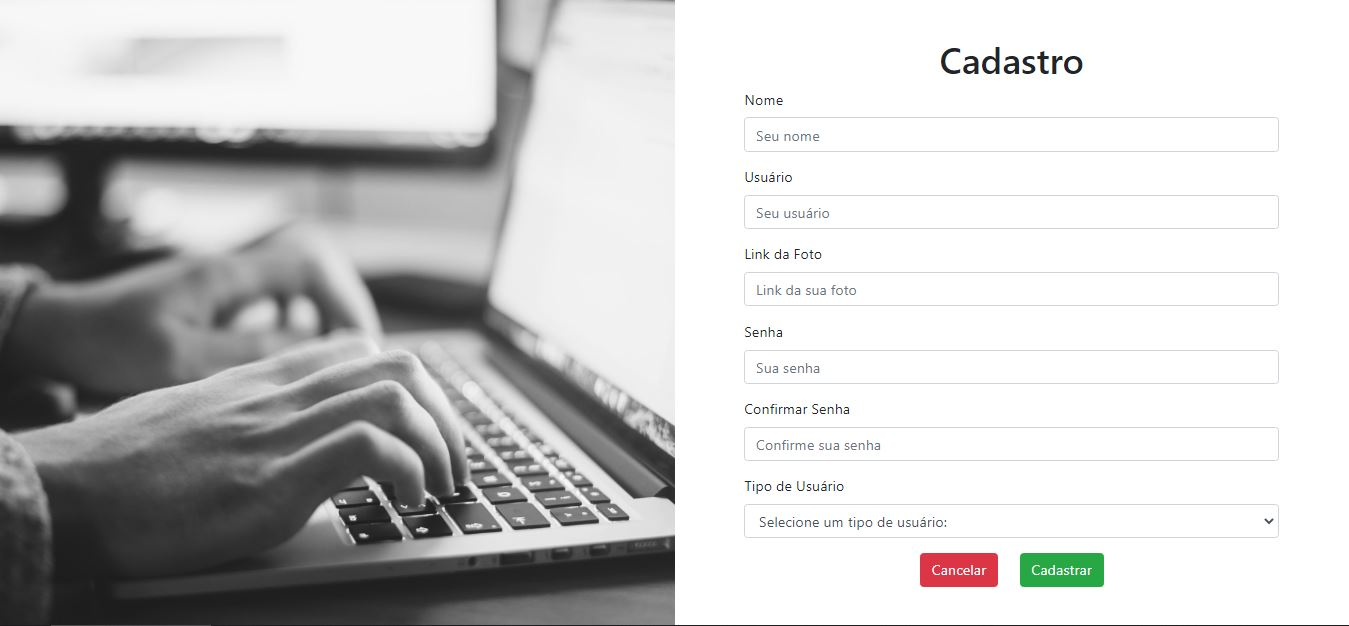
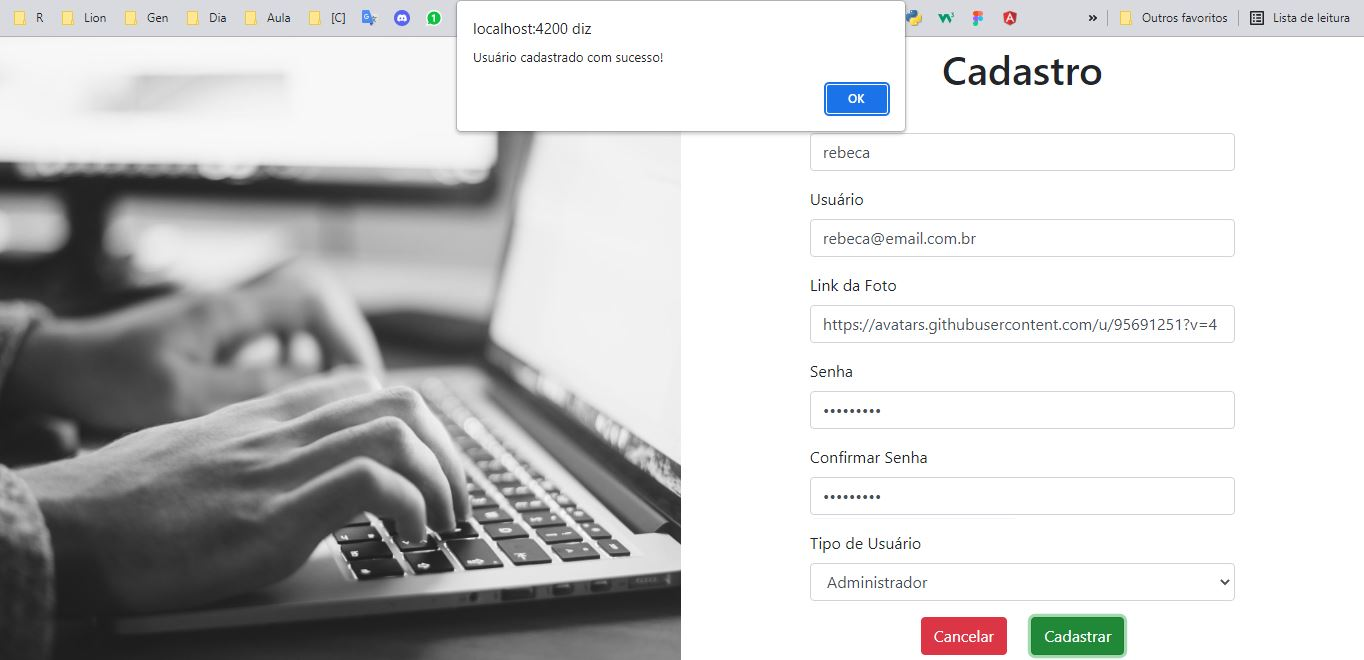
@RebecaMarquesSilva [Update - Consumo de API]

diff --git a/src/app/cadastrar/cadastrar.component.html b/src/app/cadastrar/cadastrar.component.html
@@ -10,6 +10,7 @@
           <div class="form-group">
             <label for="nome">Nome</label>
             <input
+              [(ngModel)]="user.nome"
               type="text"
               class="form-control"
               name="nome"
@@ -21,6 +22,7 @@
           <div class="form-group">
             <label for="usuario">Usuário</label>
             <input
+              [(ngModel)]="user.usuario"
               type="text"
               class="form-control"
               name="usuario"
@@ -32,6 +34,7 @@
           <div class="form-group">
             <label for="foto">Link da Foto</label>
             <input
+            [(ngModel)]="user.foto"
               type="text"
               class="form-control"
               name="foto"
@@ -42,7 +45,7 @@
 
           <div class="form-group">
             <label for="senha">Senha</label>
-            <input
+            <input (input)="confirmSenha($event)"
               class="form-control"
               type="password"
               name="senha"
@@ -54,6 +57,7 @@
           <div class="form-group">
             <label for="confirmarSenha">Confirmar Senha</label>
             <input
+              [(ngModel)]="user.senha"
               class="form-control"
               type="password"
               name="confirmarSenha"
@@ -64,7 +68,7 @@
 
           <div class="form-group">
             <label for="tipo">Tipo de Usuário</label>
-            <select class="form-control" name="tipo" id="tipo">
+            <select class="form-control" name="tipo" id="tipo" (change)="tipoUser($event)">
               <option>Selecione um tipo de usuário:</option>
               <option value="normal">Normal</option>
               <option value="adm">Administrador</option>
@@ -73,7 +77,7 @@
 
           <div class="d-flex justify-content-center">
             <button type="submit" class="btn btn-danger mr-4" routerLink="/entrar">Cancelar</button>
-            <button type="submit" class="btn btn-success">Cadastrar</button>
+            <button type="submit" class="btn btn-success" (click)="cadastrar()">Cadastrar</button>
           </div>
         </div>
       </div>

diff --git a/src/app/entrar/entrar.component.ts b/src/app/entrar/entrar.component.ts
@@ -1,4 +1,8 @@
 import { Component, OnInit } from '@angular/core';
+import { Router } from '@angular/router';
+import { environment } from 'src/environments/environment.prod';
+import { UserLogin } from '../model/UserLogin';
+import { AuthService } from '../service/auth.service';
 
 @Component({
   selector: 'app-entrar',
@@ -7,9 +11,36 @@ import { Component, OnInit } from '@angular/core';
 })
 export class EntrarComponent implements OnInit {
 
-  constructor() { }
+  userLogin: UserLogin = new UserLogin()
 
-  ngOnInit(): void {
+  constructor(
+    private authService: AuthService,
+    private router: Router
+  ) { }
+
+  ngOnInit() {
+    window.scroll(0,0)
   }
 
+  entrar() {
+    this.authService.entrar(this.userLogin).subscribe((resp: UserLogin) => {
+      this.userLogin = resp
+
+      environment.token = this.userLogin.token
+      environment.nome = this.userLogin.nome
+      environment.foto = this.userLogin.foto
+      environment.id = this.userLogin.id
+
+      // console.log(environment.token)
+      // console.log(environment.nome)
+      // console.log(environment.foto)
+      // console.log(environment.id)
+
+      this.router.navigate(["/inicio"])
+    }, erro => {
+      if(erro.status == 500) {
+      alert("Usuário e/ou senha estão incorretos!")
+      }
+    })
+  }
 }

diff --git a/src/app/cadastrar/cadastrar.component.ts b/src/app/cadastrar/cadastrar.component.ts
@@ -1,5 +1,8 @@
 import { Component, OnInit } from '@angular/core';
-import { UserLogin } from '../model/UserLogin';
+import { Router } from '@angular/router';
+import { User } from '../model/User';
+import { AuthService } from '../service/auth.service';
+
 
 @Component({
   selector: 'app-cadastrar',
@@ -8,12 +11,40 @@ import { UserLogin } from '../model/UserLogin';
 })
 export class CadastrarComponent implements OnInit {
 
-  userLogin: UserLogin = new UserLogin
+  user: User = new User
+  confirmaSenha: string
+  tipoUsuario: string
 
-  constructor() { }
+  constructor(
+    private authService: AuthService,
+    private router: Router
+  ) { }
 
   ngOnInit() {
     window.scroll(0,0)
   }
 
+  confirmSenha(event: any) {
+    this.confirmaSenha = event.target.value
+  }
+
+  tipoUser(event: any) {
+    this.tipoUsuario = event.target.value
+  }
+
+  cadastrar() {
+    this.user.tipo = this.tipoUsuario
+
+
+  if(this.user.senha != this.confirmaSenha) {
+    alert("As senhas estão incorretas")
+  } else {
+    this.authService.cadastrar(this.user).subscribe((resp: User) => {
+      this.user = resp
+      this.router.navigate(["/entrar"])
+
+      alert("Usuário cadastrado com sucesso!")
+    })
+  }
+  }
 }

diff --git a/src/app/entrar/entrar.component.html b/src/app/entrar/entrar.component.html
@@ -7,6 +7,7 @@
           <div class="form-group">
             <label for="usuario">Usuário</label>
             <input
+              [(ngModel)]="userLogin.usuario"
               class="form-control"
               type="text"
               name="usuario"
@@ -17,6 +18,7 @@
           <div class="form-group">
             <label for="senha">Senha</label>
             <input
+              [(ngModel)]="userLogin.senha"
               class="form-control"
               type="password"
               name="senha"
@@ -25,7 +27,7 @@
             />
           </div>
           <div class="d-flex justify-content-center">
-            <button type="submit" class="btn btn-success">Entrar</button>
+            <button type="submit" class="btn btn-success" (click)="entrar()">Entrar</button>
           </div>
           <hr class="mt-5 mb-5" />
           <p class="text-center">

diff --git a/src/app/app.module.ts b/src/app/app.module.ts
@@ -10,6 +10,7 @@ import { MenuComponent } from './menu/menu.component';
 import { RodapeComponent } from './rodape/rodape.component';
 import { EntrarComponent } from './entrar/entrar.component';
 import { CadastrarComponent } from './cadastrar/cadastrar.component';
+import { InicioComponent } from './inicio/inicio.component';
 
 
 @NgModule({
@@ -18,7 +19,8 @@ import { CadastrarComponent } from './cadastrar/cadastrar.component';
     MenuComponent,
     RodapeComponent,
     EntrarComponent,
-    CadastrarComponent
+    CadastrarComponent,
+    InicioComponent
   ],
   imports: [
     BrowserModule,

diff --git a/src/app/app-routing.module.ts b/src/app/app-routing.module.ts
@@ -2,13 +2,15 @@ import { NgModule } from '@angular/core';
 import { RouterModule, Routes } from '@angular/router';
 import { CadastrarComponent } from './cadastrar/cadastrar.component';
 import { EntrarComponent } from './entrar/entrar.component';
+import { InicioComponent } from './inicio/inicio.component';
 
 const routes: Routes = [
 
   {path: '', redirectTo: 'entrar', pathMatch: 'full'},
   {path: 'entrar', component: EntrarComponent},
   {path: 'cadastrar', component: CadastrarComponent},
-  
+  {path: 'inicio', component: InicioComponent}
+
 
 ];
 

diff --git a/src/app/inicio/inicio.component.ts b/src/app/inicio/inicio.component.ts
@@ -1,0 +1,15 @@
+import { Component, OnInit } from '@angular/core';
+
+@Component({
+  selector: 'app-inicio',
+  templateUrl: './inicio.component.html',
+  styleUrls: ['./inicio.component.css']
+})
+export class InicioComponent implements OnInit {
+
+  constructor() { }
+
+  ngOnInit(): void {
+  }
+
+}

diff --git a/src/environments/environment.prod.ts b/src/environments/environment.prod.ts
@@ -1,3 +1,7 @@
 export const environment = {
-  production: true
+  production: true,
+  token: '',
+  nome: '',
+  id: 0,
+  foto: ''
 };

diff --git a/src/app/inicio/inicio.component.html b/src/app/inicio/inicio.component.html
@@ -1,0 +1,1 @@
+<p>inicio works!</p>
